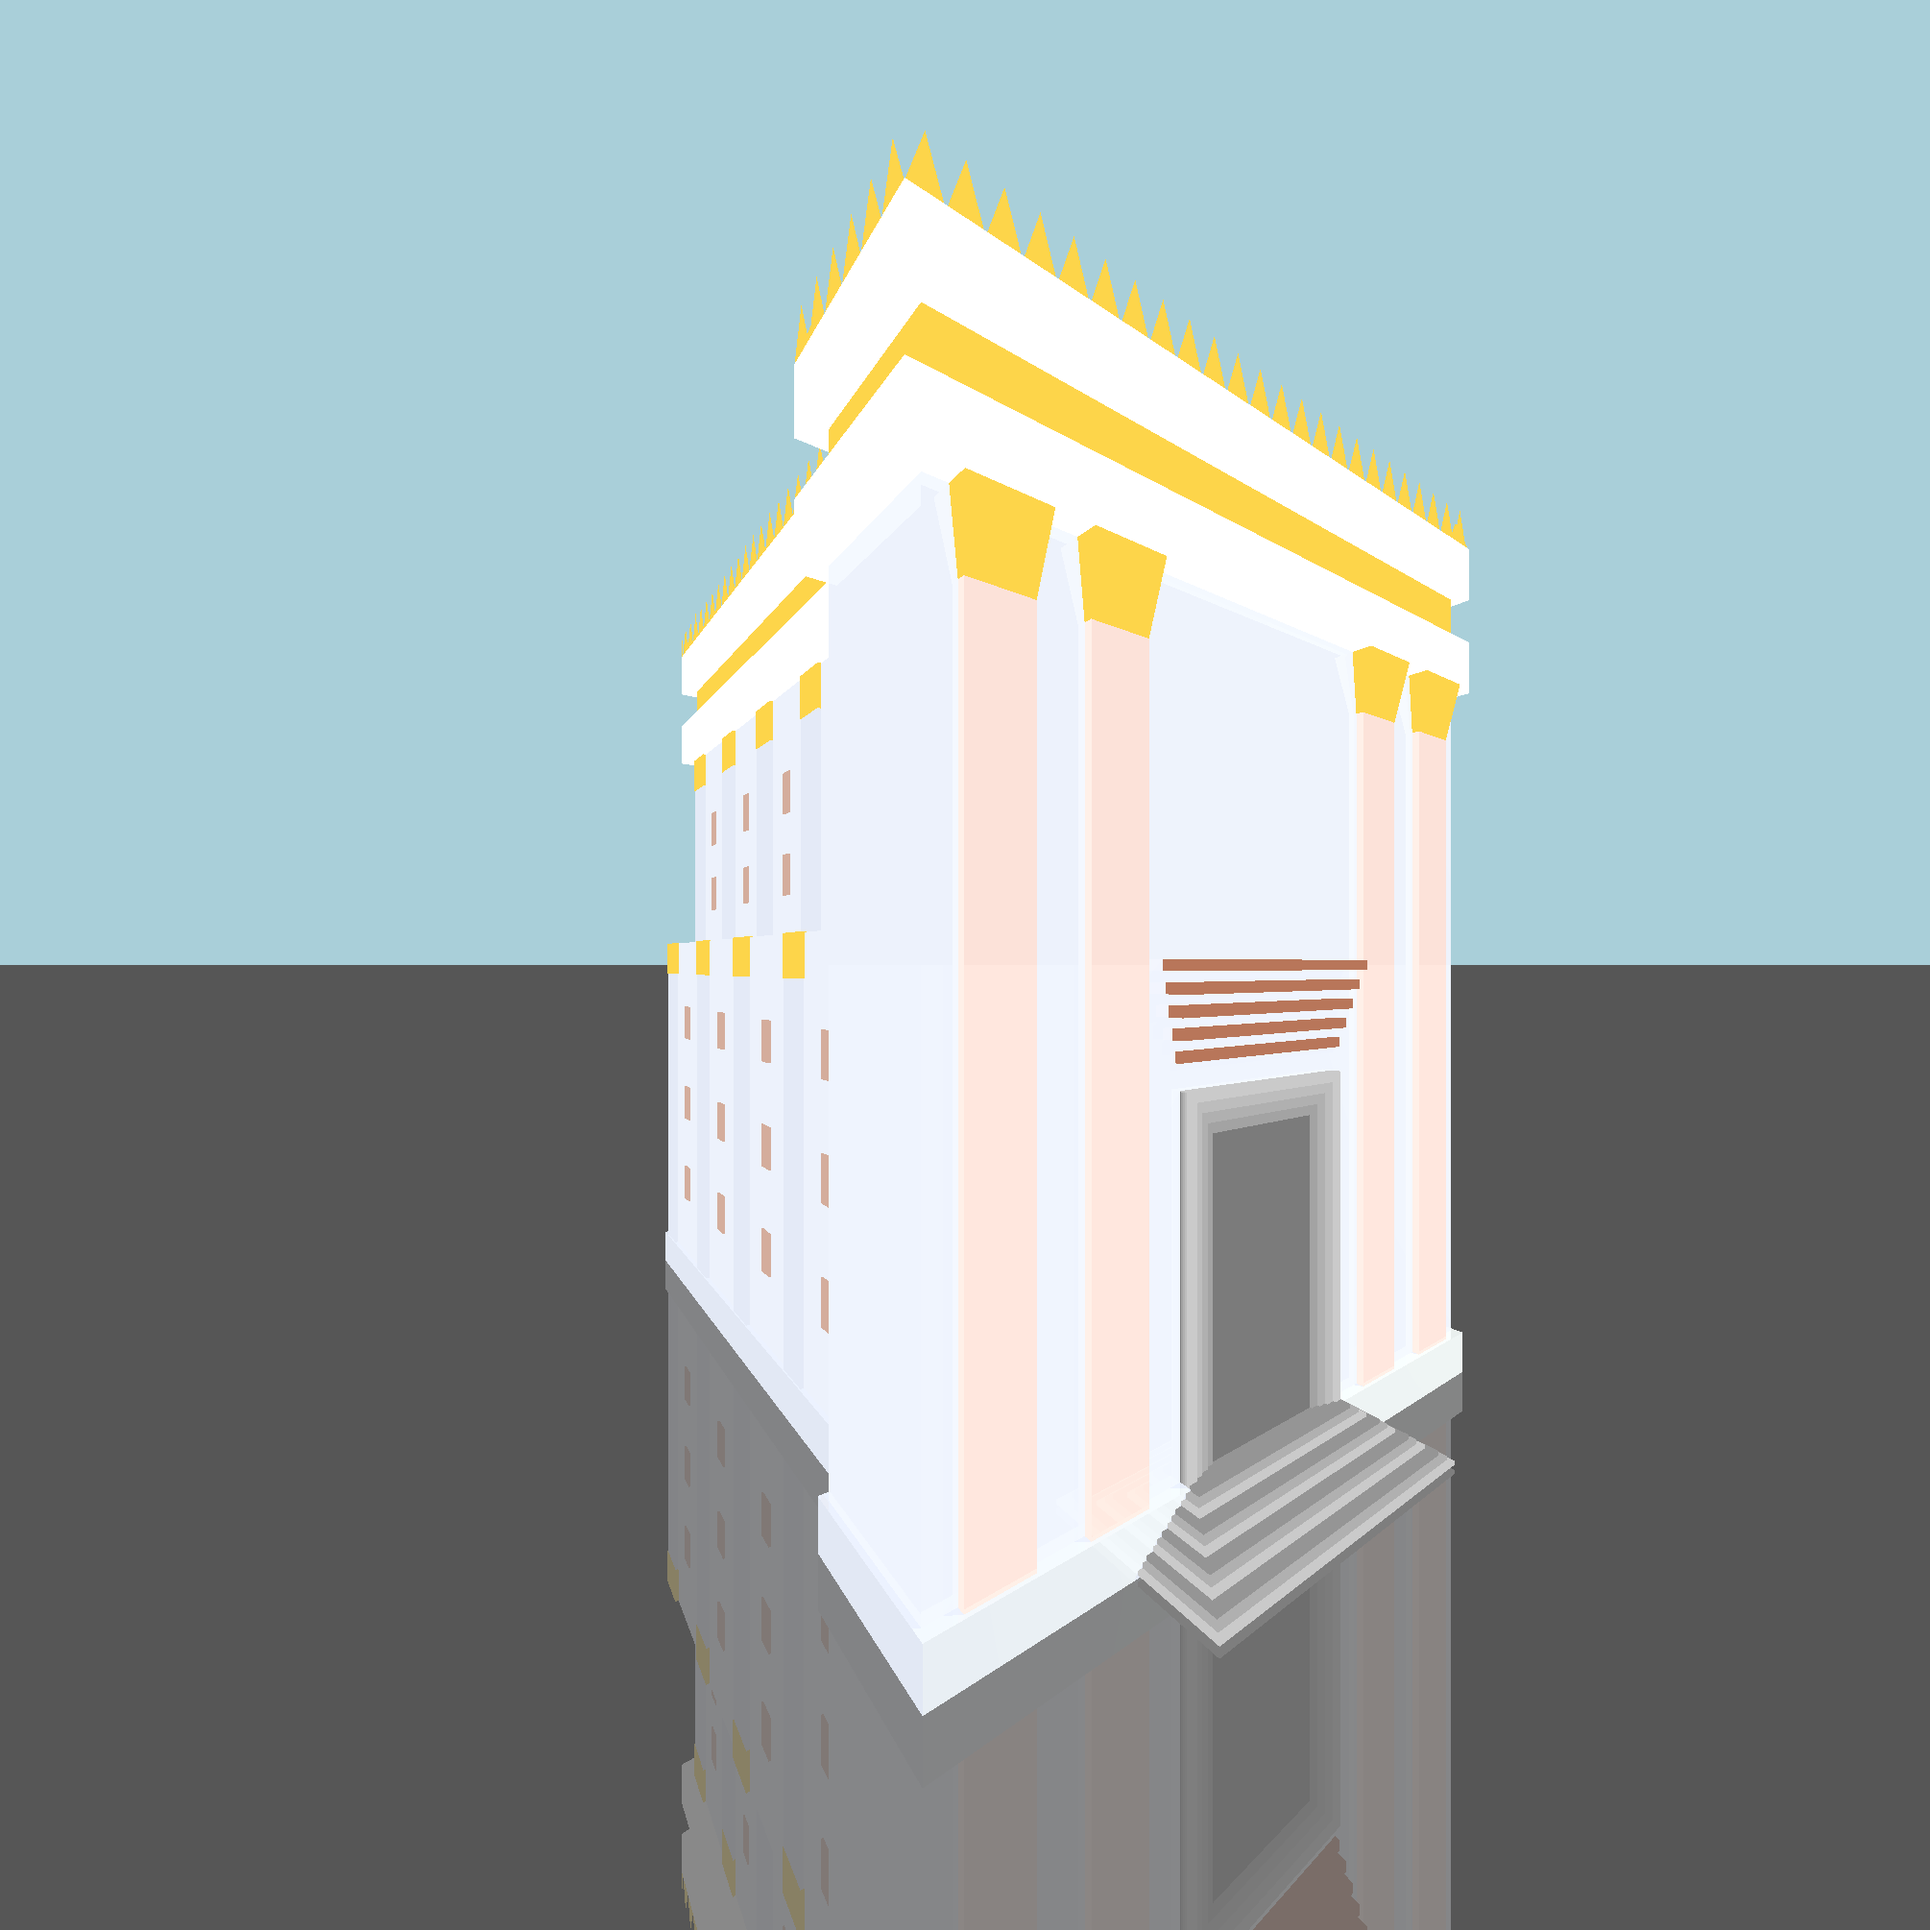
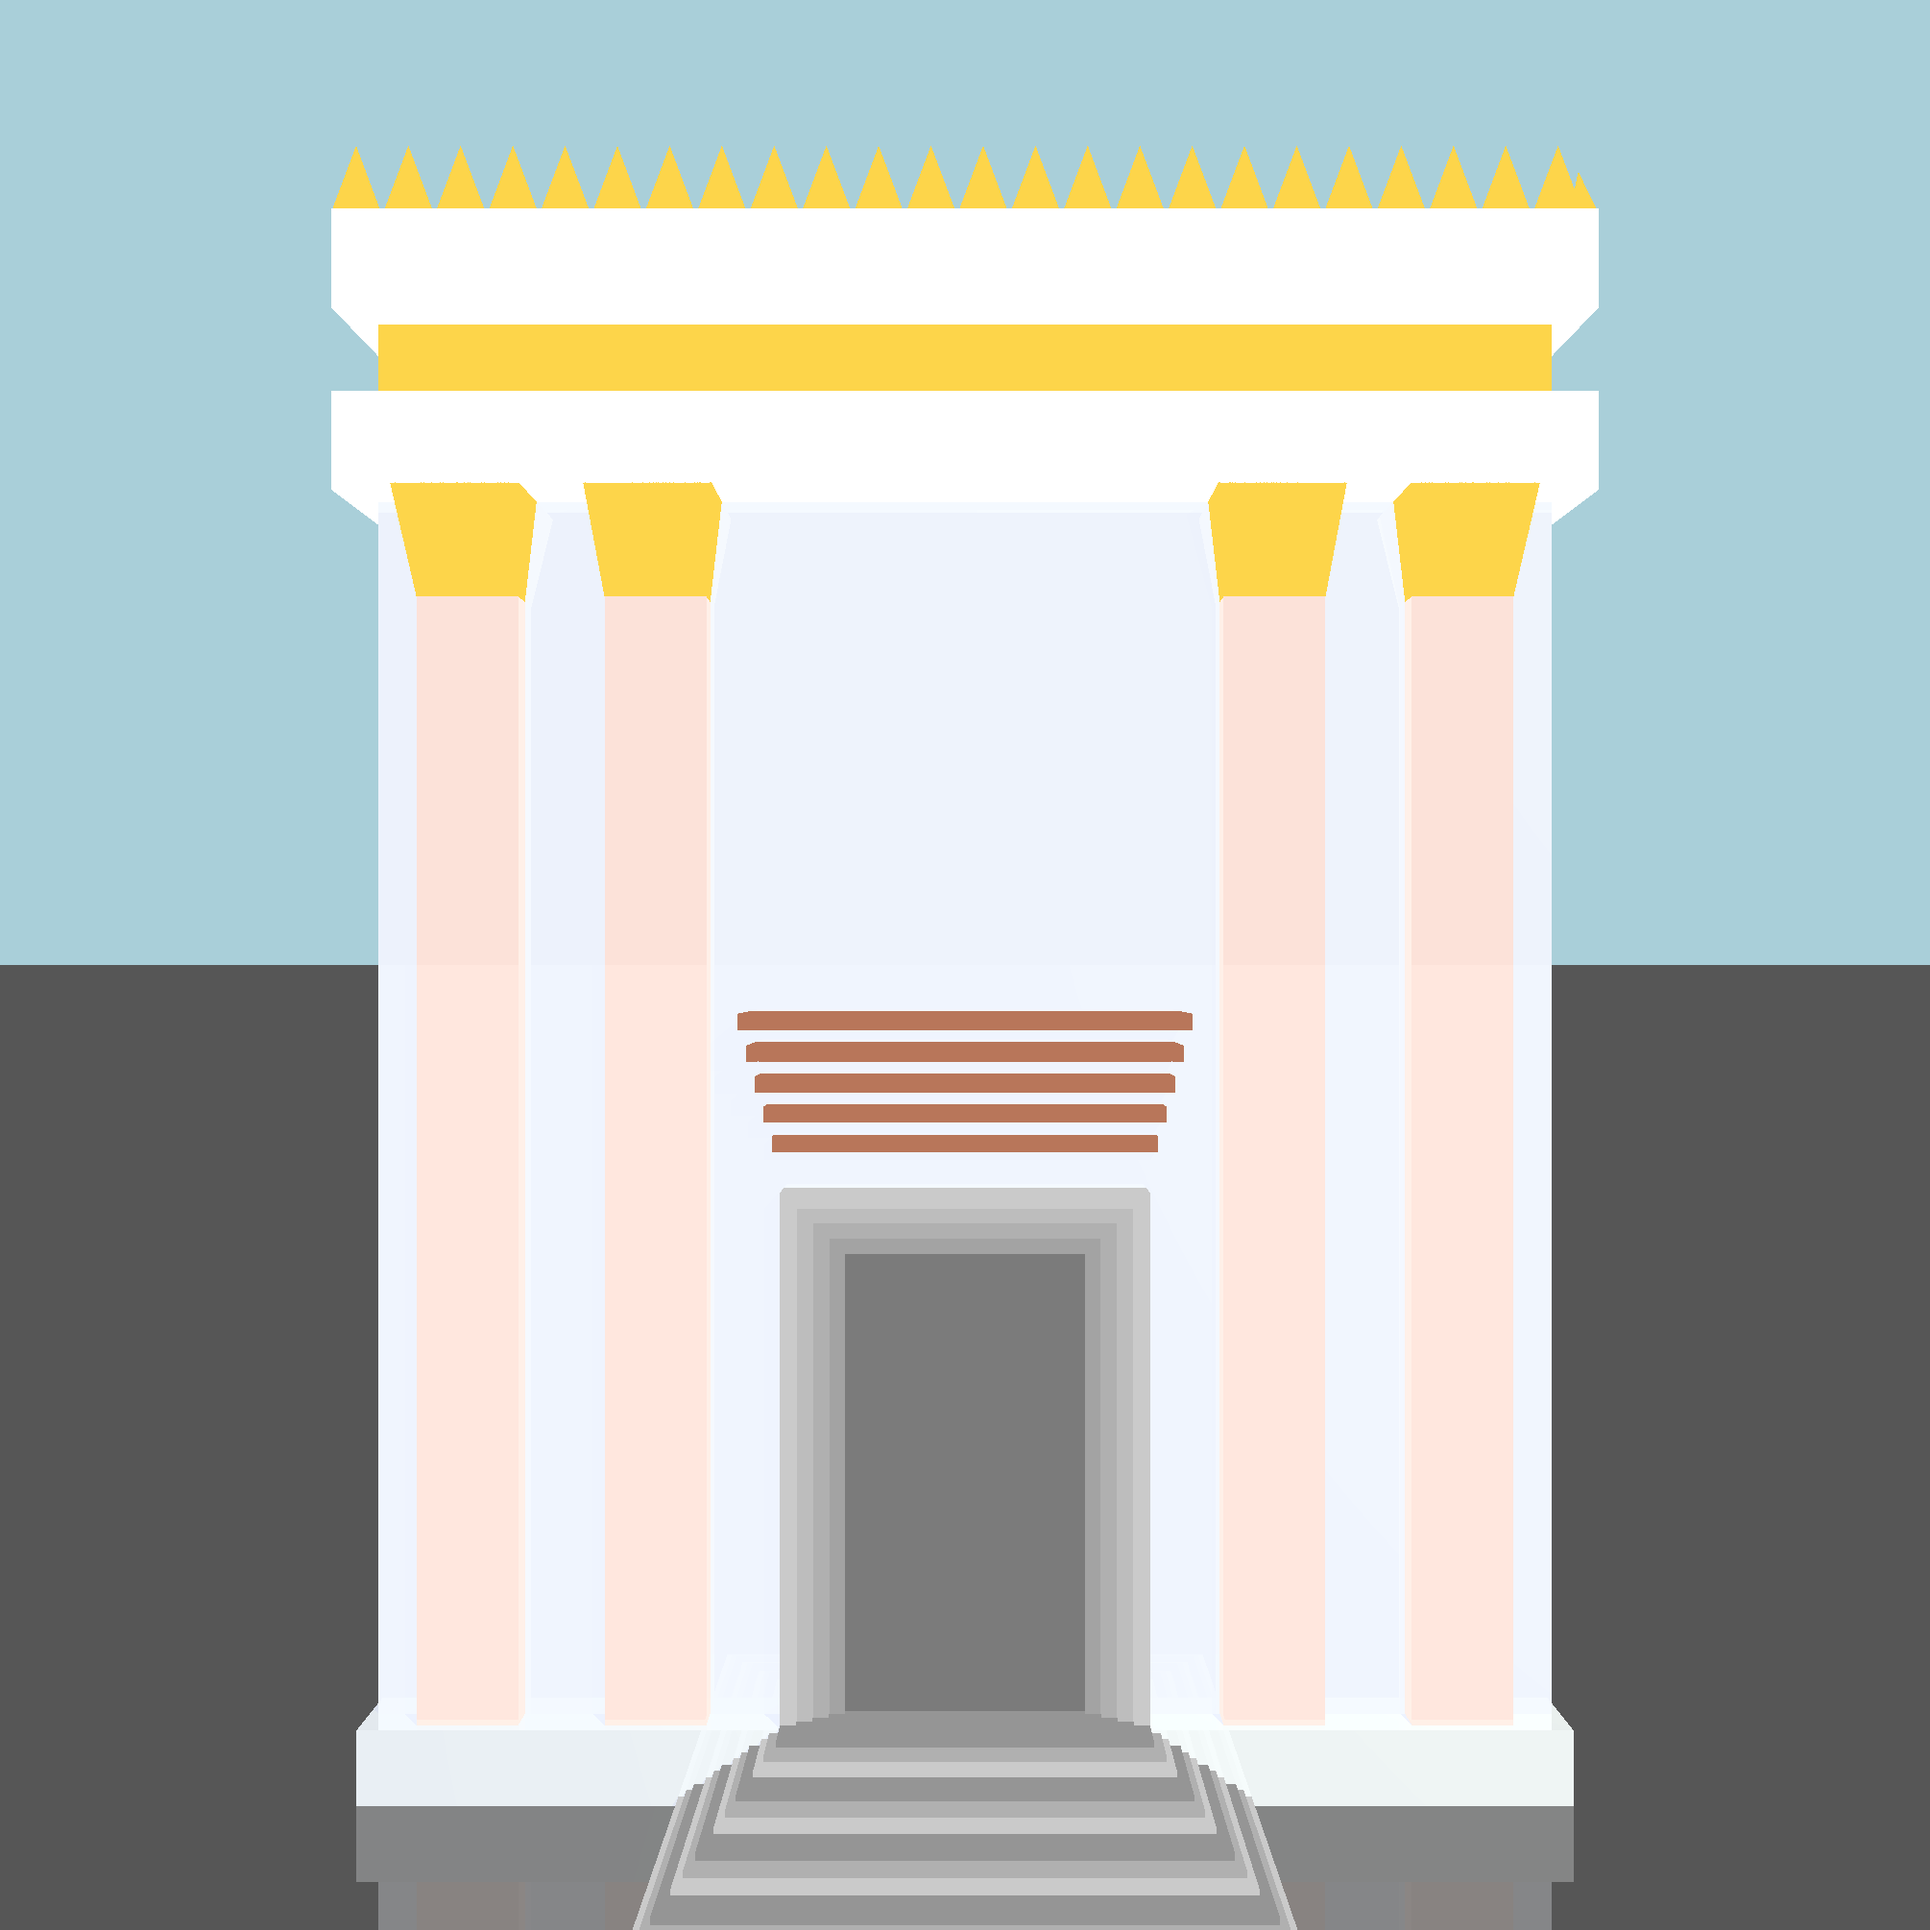
add equals to color

diff --git a/unitTests/MP/FirstImageTest.java b/unitTests/MP/FirstImageTest.java
@@ -79,14 +79,14 @@ public class FirstImageTest {
     @Test
     public void temple3d() {
 
-        /*Camera camera1 = new Camera(new Point(0, 0, 1000), new Vector(0, 0, -1), new Vector(0, 1, 0))
+        Camera camera1 = new Camera(new Point(0, 0, 1000), new Vector(0, 0, -1), new Vector(0, 1, 0))
                 .setVPSize(2500, 2500).setVPDistance(1000); //front lens
-        Camera camera1 = new Camera(new Point(-1400, 20, 800), new Vector(0.5, 0, -1), new Vector(0, 1, 0))
+        /*Camera camera1 = new Camera(new Point(-1400, 20, 800), new Vector(0.5, 0, -1), new Vector(0, 1, 0))
                 .setVPSize(2500, 2500).setVPDistance(1000); //side lens
         Camera camera1 = new Camera(new Point(0, 0, -2500), new Vector(0, 0, 1), new Vector(0, 1, 0))
-                .setVPSize(2500, 2500).setVPDistance(1000); //back lens*/
+                .setVPSize(2500, 2500).setVPDistance(1000); //back lens
         Camera camera1 = new Camera(new Point(-1300, -70, 900), new Vector(0.68, 0, -1), new Vector(0, 1, 0))
-                .setVPSize(2500, 2500).setVPDistance(1000);
+                .setVPSize(2500, 2500).setVPDistance(1000);*/
 
 
 

diff --git a/src/primitives/Color.java b/src/primitives/Color.java
@@ -131,6 +131,33 @@ public class Color {
     }
 
     /**
+     * the function check if two numbers are in the same area
+     * @param d1 number
+     * @param d2 number
+     * @return true if the numbers are in the same area
+     */
+    public Boolean isInTheArea(double d1, double d2){
+        if(d1>255)
+            d1=255;
+        if(d2>255)
+            d2=255;
+        if(d1!=d2 && (d1>(d2+5.0) && d1<(d2-5.0)))
+            return false;
+        return true;
+    }
+
+    /**
+     * check if two colors are equals
+     * @param color one of the colors
+     * @return true if the colors are equals or in the same area
+     */
+    public Boolean equals(Color color){
+        if(isInTheArea(color.rgb.d1, rgb.d1) && isInTheArea(color.rgb.d2, rgb.d2) && isInTheArea(color.rgb.d3, rgb.d3))
+            return true;
+        return false;
+    }
+
+    /**
      * Scale the color by (1 / reduction factor)
      *
      * @param k reduction factor

diff --git a/src/Main.java b/src/Main.java
@@ -2,16 +2,6 @@ import primitives.*;
 import static java.lang.System.out;
 import static primitives.Util.*;
 
-/*TODO:
- *  1. Tests that return in any of their function null (and getter function) i didn't write a test at all.
- *  3. In plane i didn't understand the functions getNormal so i didn't do test for them.
- *  4. Add comments
- *  5. Add javadoc to ray and maybe more 🤔 (Hila's smiley looks ugly😔😔)🧁🧁🧁🧁
- *  Use:
- *  6. implementing {@link Geometry#getNormal(Point)}
- *  7. implementing {@link Geometry#findIntersections(Ray)}
- *  */
-
 /**
  * Test program for the 1st stage
  *

diff --git a/src/primitives/Material.java b/src/primitives/Material.java
@@ -15,7 +15,7 @@ public class Material {
 
     Double3 kT = new Double3(0.0); //Transparency coefficient
 
-    Double3 kR = new Double3(0.0); //Reflection, Perfect mirror has a 𝒌𝑹 = 𝟏 and matt surface has a 𝒌𝑹 = 𝟎
+    Double3 kR = new Double3(0.0); //Reflection, Perfect mirror has a kr = 1 and matt surface has a kr = 0
 
     public double glossiness = 0;   //Amount of glossiness
 

diff --git a/src/geometries/Tube.java b/src/geometries/Tube.java
@@ -8,7 +8,7 @@ import java.util.List;
 
 /**
  * @author Hila Buznach & Hannah Silverberg
- * Class to represent a tube🧪
+ * Class to represent a tube
  */
 public class Tube extends Geometry {
     private final Ray _axisRay;     //Ray axis
